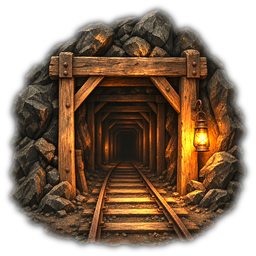
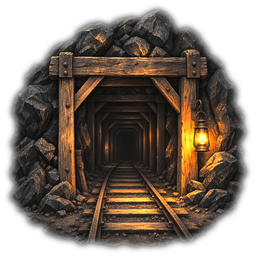
fix(矿境): 矿口碎石去暖只留木框 / 灯光暖色、尺寸收到原型 120;锁换原型白色描边线稿锁(区域行 + 矿格)

Changed region(s): [[0.1562, 0.125, 0.9375, 0.9688], [0.125, 0.6562, 0.1875, 0.75], [0.1562, 0.4062, 0.1875, 0.4688]]

diff --git a/assets/scripts/scenes/lobby/LobbyRaidPanelRenderer.ts b/assets/scripts/scenes/lobby/LobbyRaidPanelRenderer.ts
@@ -513,10 +513,7 @@ export class LobbyRaidPanelRenderer {
       }
       T(row, 'Name', zone.name, -w / 2 + S(31), 0, 30, on ? GLASS_COLOR.onGold : unlocked ? GLASS_COLOR.text : GLASS_COLOR.sub, S(200), HorizontalTextAlignment.LEFT, on);
       if (!unlocked) {
-        const lock = this.host.addSprite('Lock', GLASS_ICON_PATH('lock'), w / 2 - S(33), 0, S(34), S(34), row);
-        if (lock) {
-          lock.color = new Color(220, 224, 232, 255);
-        }
+        this.mountLineLock(row, 'Lock', w / 2 - S(33), 0, S(28), new Color(240, 242, 246, 255));
       }
       row.on(Node.EventType.TOUCH_END, () => {
         const target = zone.stages.find((stage) => stage.unlocked && !stage.cleared) ?? zone.stages.find((stage) => stage.unlocked) ?? zone.stages[0];
@@ -541,7 +538,8 @@ export class LobbyRaidPanelRenderer {
       const on = stage.stageCode === selected.stageCode;
       const tile = this.host.addChildPlainNode(panel, `LobbyRaidMine_${stage.orderNo}`, FX(cx), FY(top + 115), S(151), S(230));
       mountGlassSlice(kit, tile, 'Bg', on ? GLASS_SLICES.frameSel : GLASS_SLICES.frame, 0, 0, S(151), S(230), k);
-      this.host.addSprite('Art', stage.unlocked ? RAID_ART.nodeOn : RAID_ART.nodeOff, 0, S(115 - 72), S(128), S(128), tile);
+      // 原型矿口在格内约 120 见方(上沿距格顶 ~19)
+      this.host.addSprite('Art', stage.unlocked ? RAID_ART.nodeOn : RAID_ART.nodeOff, 0, S(115 - 76), S(120), S(120), tile);
       T(tile, 'Name', `${(stage.orderNo - 1) % STAGES_PER_ZONE + 1}号矿`, 0, S(115 - 154), 28, stage.unlocked ? GLASS_COLOR.text : GLASS_COLOR.sub, S(140), HorizontalTextAlignment.CENTER, true);
       const sy = S(115 - 194);
       if (stage.cleared) {
@@ -550,10 +548,7 @@ export class LobbyRaidPanelRenderer {
       } else if (stage.unlocked) {
         T(tile, 'State', '当前', 0, sy, 22, GLASS_COLOR.champagne, S(120), HorizontalTextAlignment.CENTER);
       } else {
-        const lock = this.host.addSprite('Lock', GLASS_ICON_PATH('lock'), -S(75.5) + S(42), sy, S(26), S(26), tile);
-        if (lock) {
-          lock.color = GLASS_COLOR.sub;
-        }
+        this.mountLineLock(tile, 'Lock', -S(75.5) + S(42), sy, S(22), new Color(214, 218, 226, 255));
         T(tile, 'State', '未解锁', -S(75.5) + S(64), sy, 20, GLASS_COLOR.sub, S(80));
       }
       tile.on(Node.EventType.TOUCH_END, () => this.host.selectLobbyRaidStage(stage.stageCode), this);
@@ -718,6 +713,39 @@ export class LobbyRaidPanelRenderer {
         child.destroy();
       }
     }
+  }
+
+  /** 线稿锁(原型:白色描边圆角锁身 + 半圆锁梁 + 锁孔);size = 锁高。 */
+  private mountLineLock(parent: Node, name: string, x: number, y: number, size: number, color: Color): void {
+    const node = this.host.addChildPlainNode(parent, name, x, y, size, size);
+    const g = node.addComponent(Graphics);
+    // 原型锁线粗约为锁高的 1/8(26px 锁 ≈ 3px 线)
+    const lw = Math.max(2, size * 0.13);
+    const bw = size * 0.82;
+    const bh = size * 0.56;
+    const by = -size / 2 + lw / 2;
+    g.lineWidth = lw;
+    g.strokeColor = color;
+    g.lineCap = Graphics.LineCap.ROUND;
+    g.lineJoin = Graphics.LineJoin.ROUND;
+    g.roundRect(-bw / 2, by, bw, bh, size * 0.1);
+    g.stroke();
+    // 锁梁:两竖 + 上半圆
+    const sr = bw * 0.3;
+    const top = by + bh;
+    const archY = size / 2 - lw / 2 - sr;
+    // 上半圆按折线画(Graphics.arc 的方向参数在引擎里有坑,见 cocos-graphics-arc-direction)
+    g.moveTo(-sr, top);
+    g.lineTo(-sr, archY);
+    for (let i = 1; i <= 12; i += 1) {
+      const t = Math.PI - (Math.PI * i) / 12;
+      g.lineTo(Math.cos(t) * sr, archY + Math.sin(t) * sr);
+    }
+    g.lineTo(sr, top);
+    g.stroke();
+    g.fillColor = color;
+    g.circle(0, by + bh * 0.5, Math.max(1.2, lw * 0.8));
+    g.fill();
   }
 
   /** 绿色勾章(已完成):绿圆 + 白勾。 */
